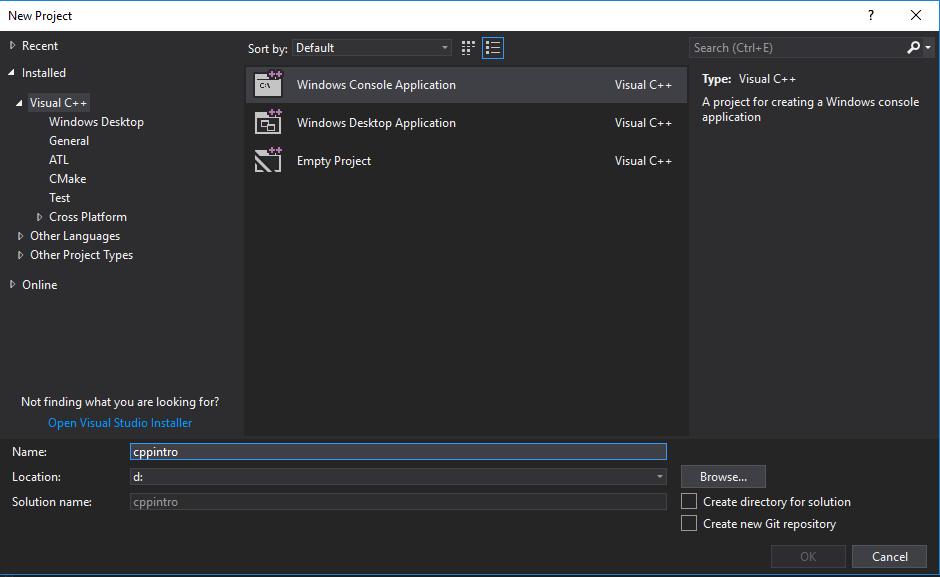
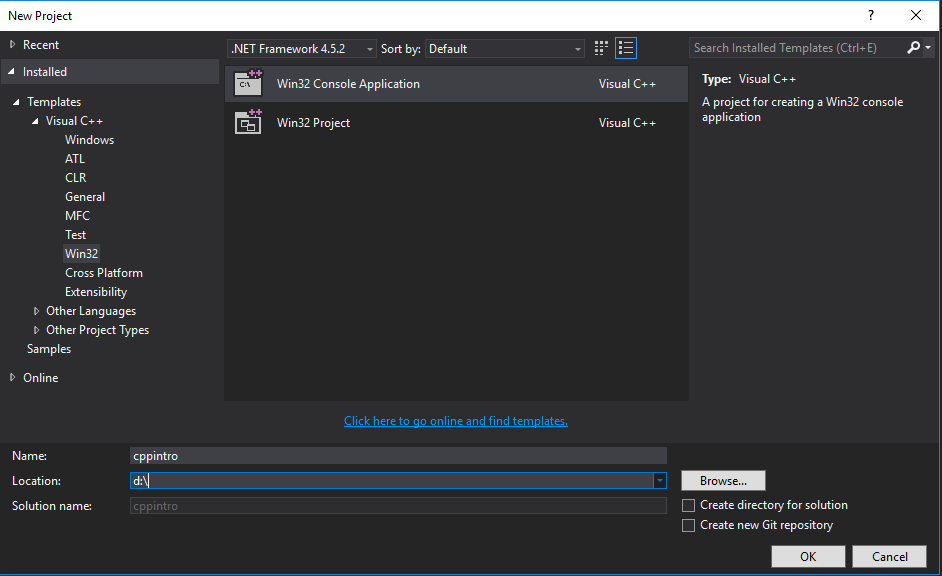
fixing week 1

diff --git a/week1practical.md b/week1practical.md
@@ -19,7 +19,7 @@ Once you are set up with your pair programming team, open Visual Studio on one m
 Once Visual Studio is open, follow these steps:
 
 * From the __File__ menu, select __File \> New \> Project__
-* In the dialog that appears, make sure the __Visual C++ > Windows Desktop__ template is selected in the left pane, __Windows Console Application__ in the middle, and that you enter a name and a location at the bottom. Choose the __D\:\\__ drive for the location, and give the project a name (e.g. __cppintro__). See picture:
+* In the dialog that appears, make sure the __Visual C++ > Win32__ template is selected in the left pane, __Win32 Console Application__ in the middle, and that you enter a name and a location at the bottom. Choose the __D\:\\__ drive for the location, and give the project a name (e.g. __cppintro__). See picture:
 
 ![New Project Dialog](dialog.png)
 * Hit OK, and hit OK again on the next dialog to accept the default settings.
